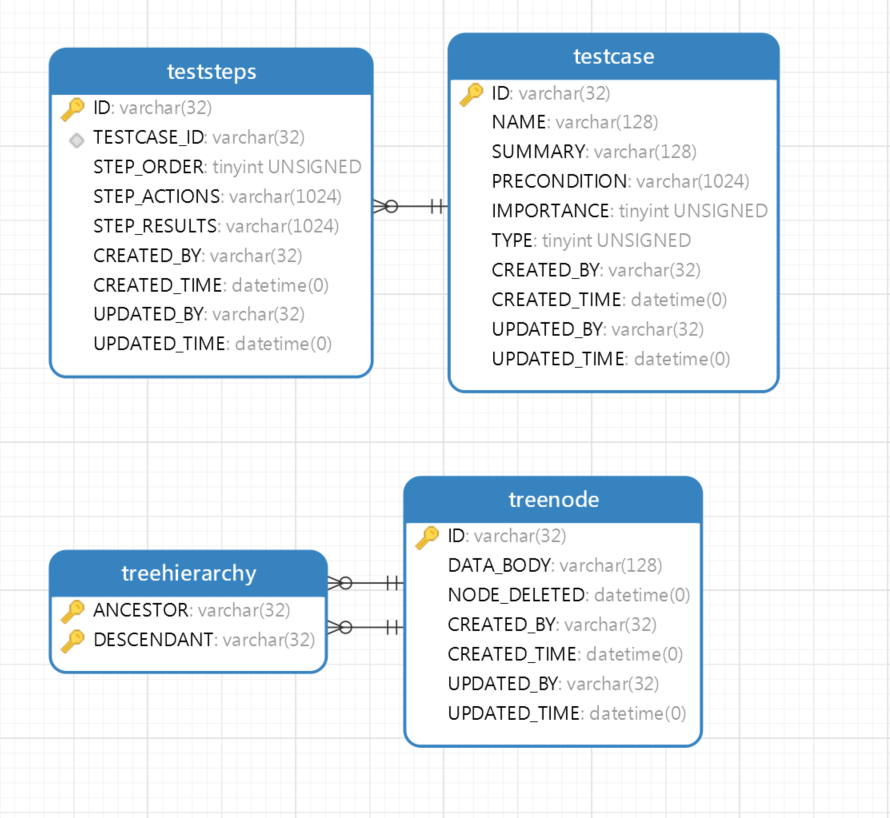
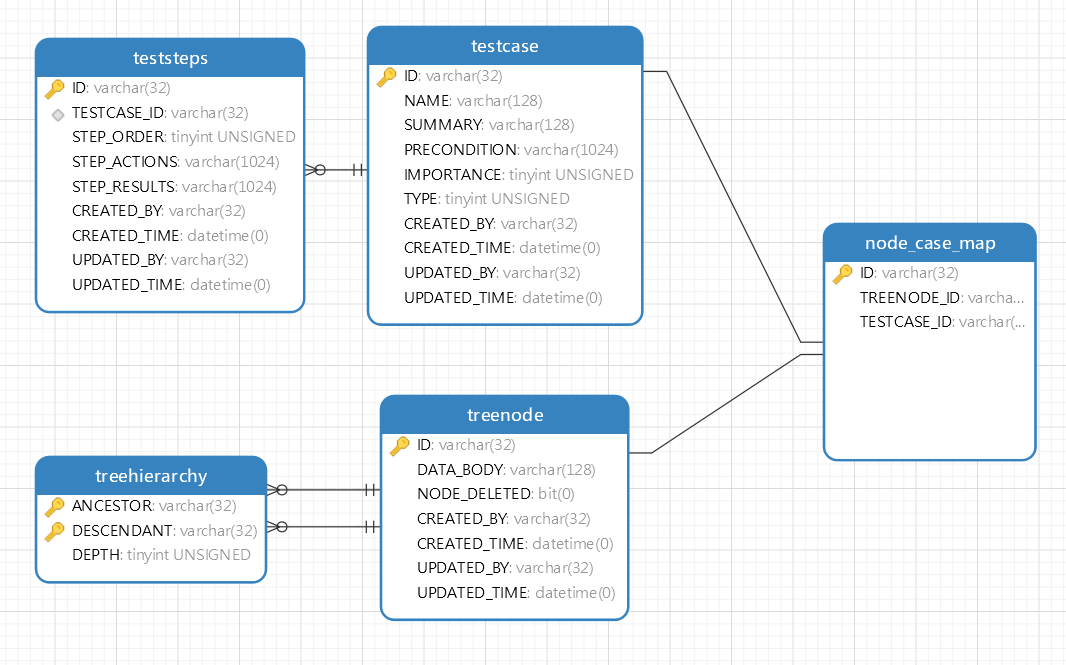
db shecma modify

diff --git a/TCMER/Dao/TreeNodeMapper.cs b/TCMER/Dao/TreeNodeMapper.cs
@@ -11,6 +11,12 @@ namespace TCMER.Dao
 {
     class TreeNodeMapper
     {
+        private const string SqlStr = @"SELECT tn.ID,tn.DATA_BODY,tn.UPDATED_BY,tn.UPDATED_TIME,tn.CREATED_BY,tn.CREATED_TIME,th.DEPTH 
+                                FROM treenode tn LEFT JOIN treehierarchy th ON th.ANCESTOR = tn.ID AND th.DEPTH = {0};";
+
+        private const string SqlStr2 = @"SELECT tn.ID,tn.DATA_BODY,tn.UPDATED_BY,tn.UPDATED_TIME,tn.CREATED_BY,tn.CREATED_TIME,th.DEPTH
+                                FROM treenode tn LEFT JOIN treehierarchy th ON th.ANCESTOR = tn.ID AND th.DESCENDANT = {0};";
+
         private readonly MySqlHelper _mySqlHelper;
 
         public TreeNodeMapper()
@@ -22,7 +28,7 @@ namespace TCMER.Dao
         public List<TreeNodeModel> GetAllNodes()
         {
             const String queryStr =
-                @"SELECT tn.ID,tn.DATA_BODY,tn.UPDATED_BY,tn.UPDATED_TIME,tn.CREATED_BY,tn.CREATED_TIME FROM treenode tn LEFT JOIN treehierarchy th ON th.ANCESTOR = tn.ID AND th.DEPTH = 0;";
+                @"SELECT tn.ID,tn.DATA_BODY,tn.UPDATED_BY,tn.UPDATED_TIME,tn.CREATED_BY,tn.CREATED_TIME,th.DEPTH FROM treenode tn LEFT JOIN treehierarchy th ON th.ANCESTOR = tn.ID AND th.DEPTH = 0;";
             DataSet ds = _mySqlHelper.Query(queryStr);
             List<TreeNodeModel> tnmList = new List<TreeNodeModel>();
             foreach (DataTable dt in ds.Tables)
@@ -36,13 +42,68 @@ namespace TCMER.Dao
                     tnm.CreateTime = DateTime.Parse(dr["CREATED_TIME"].ToString());
                     tnm.UpdateBy = dr["UPDATED_BY"].ToString();
                     tnm.UpdateTime = DateTime.Parse(dr["UPDATED_TIME"].ToString());
+
                     tnmList.Add(tnm);
                 }
             }
 
             return tnmList;
-        } 
+        }
 
-        
+        [Obsolete]
+        public List<TreeNodeModel> GetAllNodes(int depth)
+        {
+            List<TreeNodeModel> tnmList = new List<TreeNodeModel>();
+
+            string queryStr = string.Format(SqlStr, depth);
+            DataSet ds = _mySqlHelper.Query(queryStr);
+ 
+            foreach (DataTable dt in ds.Tables)
+            {
+                foreach (DataRow dr in dt.Rows)
+                {
+                    TreeNodeModel tnm = new TreeNodeModel();
+                    tnm.Id = dr["ID"].ToString();
+                    tnm.DataBody = dr["DATA_BODY"].ToString();
+                    tnm.CreateBy = dr["CREATED_BY"].ToString();
+                    tnm.CreateTime = DateTime.Parse(dr["CREATED_TIME"].ToString());
+                    tnm.UpdateBy = dr["UPDATED_BY"].ToString();
+                    tnm.Depth = int.Parse(dr["DEPTH"].ToString());
+                    tnm.UpdateTime = DateTime.Parse(dr["UPDATED_TIME"].ToString());
+
+                    tnmList.Add(tnm);
+                }
+            }
+
+            return tnmList;
+        }
+
+        [Obsolete]
+        public List<TreeNodeModel> GetNodesByAncestor(String id)
+        {
+            List<TreeNodeModel> tnmList = new List<TreeNodeModel>();
+            string queryStr = string.Format(SqlStr2, id);
+            DataSet ds = _mySqlHelper.Query(queryStr);
+
+            foreach (DataTable dt in ds.Tables)
+            {
+                foreach (DataRow dr in dt.Rows)
+                {
+                    TreeNodeModel tnm = new TreeNodeModel();
+                    tnm.Id = dr["ID"].ToString();
+                    tnm.DataBody = dr["DATA_BODY"].ToString();
+                    tnm.CreateBy = dr["CREATED_BY"].ToString();
+                    tnm.CreateTime = DateTime.Parse(dr["CREATED_TIME"].ToString());
+                    tnm.UpdateBy = dr["UPDATED_BY"].ToString();
+                    tnm.Depth = int.Parse(dr["DEPTH"].ToString());
+                    tnm.UpdateTime = DateTime.Parse(dr["UPDATED_TIME"].ToString());
+                    tnmList.Add(tnm);
+                }
+            }
+            return tnmList;
+        }
+
+
+
     }
 }
